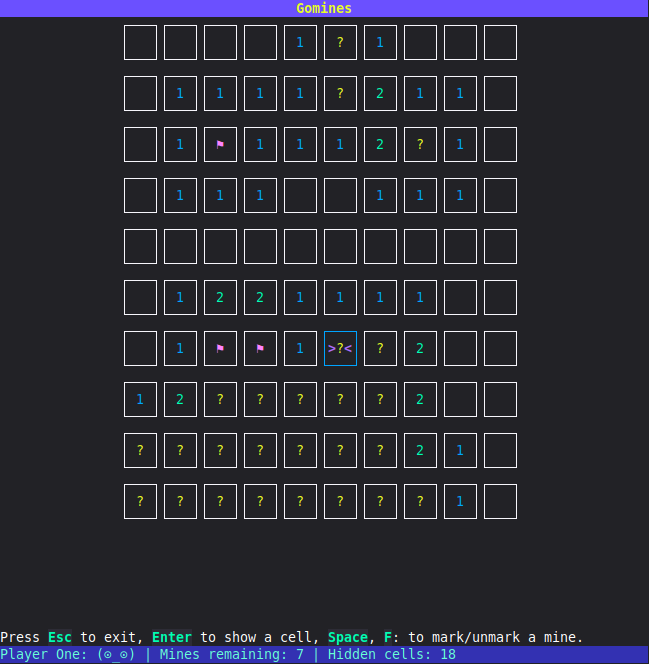
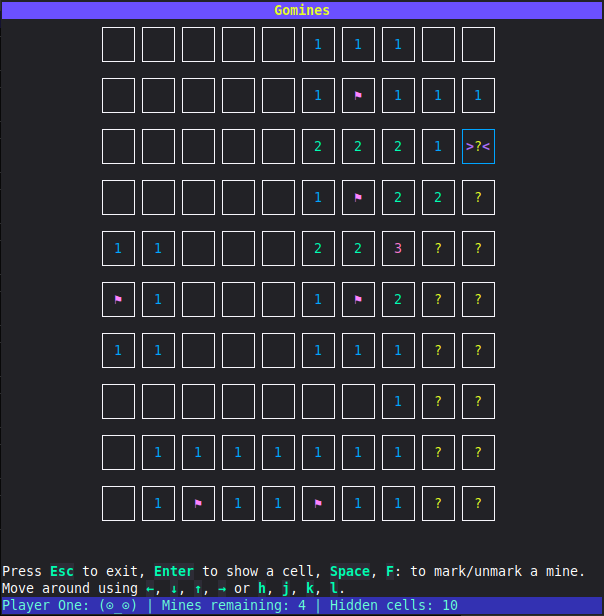
🔧 Adding Goreleaser (#4)

Changed region(s): [[0.0, 0.0, 1.0, 0.8328], [0.0, 0.8945, 1.0, 1.0]]

diff --git a/internal/pkg/mybubbles/setup/textinput.go b/internal/pkg/mybubbles/setup/textinput.go
@@ -33,11 +33,11 @@ const (
 func createPlayerNameTI() textinput.Model {
 	n := textinput.New()
 	n.Placeholder = defaultName
-	n.SetVirtualCursor(false)
-	n.Focus()
+	n.SetVirtualCursor(true)
 	n.CharLimit = nameFieldLength
 	n.SetWidth(nameFieldSize)
 	n.Prompt = styles.Prompt.Render(prompt)
+	n.SetStyles(styles.TextInputStyles)
 	return n
 }
 
@@ -45,11 +45,11 @@ func createPlayerNameTI() textinput.Model {
 func createSizeTI() textinput.Model {
 	n := textinput.New()
 	n.Placeholder = defaultSize
-	n.SetVirtualCursor(false)
-	n.Focus()
+	n.SetVirtualCursor(true)
 	n.CharLimit = sizeFieldLength
 	n.SetWidth(sizeFieldSize)
 	n.Prompt = styles.Prompt.Render(prompt)
+	n.SetStyles(styles.TextInputStyles)
 	return n
 }
 
@@ -57,20 +57,20 @@ func createSizeTI() textinput.Model {
 func createMineNumberTI() textinput.Model {
 	n := textinput.New()
 	n.Placeholder = defaultMines
-	n.SetVirtualCursor(false)
-	n.Focus()
+	n.SetVirtualCursor(true)
 	n.CharLimit = minesFieldLength
 	n.SetWidth(minesFieldSize)
 	n.Prompt = styles.Prompt.Render(prompt)
+	n.SetStyles(styles.TextInputStyles)
 	return n
 }
 
 func checkSize(_ Options, v string) error {
 	n, err := strconv.Atoi(v)
 	if err != nil {
-		return errors.New("this value is not an integer number.")
+		return errors.New("this value is not an integer number")
 	} else if n < sizeMinValue || sizeMaxValue > 100 {
-		return fmt.Errorf("this value must be beetween %d and %d.",
+		return fmt.Errorf("this value must be beetween %d and %d",
 			sizeMinValue, sizeMaxValue)
 	}
 	return nil
@@ -84,7 +84,7 @@ func checkMines(o Options, v string) error {
 	h, _ := strconv.Atoi(sh)
 	max := w*h - 1
 	if err != nil {
-		return errors.New("this value is not an integer number.")
+		return errors.New("this value is not an integer number")
 	} else if n < minesMinValue || n > max {
 		return fmt.Errorf("this value must be beetween %d and %d", minesMinValue, max)
 	}

diff --git a/internal/pkg/mybubbles/setup/model.go b/internal/pkg/mybubbles/setup/model.go
@@ -3,6 +3,7 @@ package setup
 import (
 	"fmt"
 
+	"charm.land/bubbles/v2/textinput"
 	tea "charm.land/bubbletea/v2"
 	"github.com/mconfalonieri/gomines/internal/pkg/styles"
 )
@@ -17,11 +18,13 @@ type model struct {
 
 // Next switches to the next field.
 func (s model) Next() (model, tea.Cmd) {
+	s.FocusedField().Blur()
 	focus := s.focused + 1
 	if focus == len(s.fields) {
 		return s, tea.Quit
 	}
 	s.focused = focus
+	s.FocusedField().Focus()
 	return s, nil
 }
 
@@ -32,13 +35,13 @@ func (s model) Select(i int) model {
 }
 
 // FocusedField returns the focused field.
-func (s model) FocusedField() field {
-	return s.fields[s.focused]
+func (s model) FocusedField() *field {
+	return &s.fields[s.focused]
 }
 
 // Init initializes the model.
 func (s model) Init() tea.Cmd {
-	return nil
+	return textinput.Blink
 }
 
 // SetError sets the error message.
@@ -91,7 +94,7 @@ func (s model) View() tea.View {
 	t := "\n" + styles.Title.Width(len(s.header())).Render("Gomines setup") + "\n"
 
 	t += s.header() + "\n\n"
-	t += componentView(s.FocusedField()) + "\n\n"
+	t += componentView(*s.FocusedField()) + "\n\n"
 	t += s.footer()
 
 	// Create a view

diff --git a/cmd/gomines/main.go b/cmd/gomines/main.go
@@ -10,6 +10,13 @@ import (
 	"github.com/mconfalonieri/gomines/internal/pkg/styles"
 )
 
+var (
+	// Version compiled by goreleaser.
+	Version = "dev"
+	// Gitsha (commit SHA1) compiled by goreleaser.
+	Gitsha = "none"
+)
+
 // checkError checks if an error occurred. If err is not nil, it prints a
 // message and quits.
 func checkError(err error) {
@@ -44,11 +51,18 @@ func runProgram(o options) {
 }
 
 func main() {
+	if len(os.Args) == 2 && os.Args[1] == "-V" {
+		fmt.Printf("Gomines %s (SHA:%s)\n\n", Version, Gitsha)
+		os.Exit(0)
+	}
+
 	s := runSetup()
 
 	// Set the "font"
 	if err := glyphs.SetDefault(s.GetGlyphSet()); err != nil {
-		glyphs.SetDefault(glyphs.ASCII)
+		if err := glyphs.SetDefault(glyphs.ASCII); err != nil {
+			panic("ERROR: cannot set a default glyph set.")
+		}
 	}
 
 	// Run the main program

diff --git a/internal/pkg/styles/styles.go b/internal/pkg/styles/styles.go
@@ -3,11 +3,14 @@ package styles
 import (
 	"os"
 
+	"charm.land/bubbles/v2/textinput"
 	"charm.land/lipgloss/v2"
 	"charm.land/tone"
 )
 
 var (
+	TextInputStyles = textinput.Styles{}
+
 	Title       = lipgloss.Style{}
 	KeyChar     = lipgloss.Style{}
 	Prompt      = lipgloss.Style{}
@@ -34,6 +37,7 @@ var (
 
 func init() {
 	if lipgloss.HasDarkBackground(os.Stdin, os.Stdout) {
+		TextInputStyles = textinput.DefaultDarkStyles()
 		Title = lipgloss.NewStyle().
 			Foreground(tone.Citron).
 			Background(tone.Charple).
@@ -88,6 +92,7 @@ func init() {
 		MessageLost = lipgloss.NewStyle().
 			Foreground(tone.Salmon)
 	} else {
+		TextInputStyles = textinput.DefaultLightStyles()
 		Title = lipgloss.NewStyle().
 			Foreground(tone.Cumin).
 			Background(tone.Hazy).

diff --git a/internal/pkg/gamelogic/logic.go b/internal/pkg/gamelogic/logic.go
@@ -22,7 +22,6 @@ type PlayField struct {
 	hiddenCells   int
 	VisibleField  [][]string
 	realField     *minefield.MineField
-	statusMsg     string
 }
 
 func New(w, h, m int) (PlayField, error) {
@@ -81,8 +80,8 @@ func (p *PlayField) play(x, y int, mark bool) bool {
 		p.updateStats()
 		return false
 	} else {
-		v := p.openCell(x, y)
-		if v == true {
+		isMine := p.openCell(x, y)
+		if isMine {
 			return true
 		}
 		s := xyStack{}

diff --git a/internal/pkg/mybubbles/setup/setup.go b/internal/pkg/mybubbles/setup/setup.go
@@ -15,8 +15,7 @@ const (
 
 // initialModel prepares all the fields for the model.
 func initialModel(o *Options) model {
-
-	return model{
+	m := model{
 		opt: o,
 		fields: []field{
 			{
@@ -49,6 +48,8 @@ func initialModel(o *Options) model {
 			},
 		},
 	}
+	m.fields[0].Focus()
+	return m
 }
 
 // Run runs the setup process.

diff --git a/internal/pkg/mybubbles/setup/field.go b/internal/pkg/mybubbles/setup/field.go
@@ -19,3 +19,15 @@ type field struct {
 	Header         string
 	Check          func(Options, string) error
 }
+
+func (f *field) Focus() {
+	if f.Type == fieldTextInput {
+		f.TextInputModel.Focus()
+	}
+}
+
+func (f *field) Blur() {
+	if f.Type == fieldTextInput {
+		f.TextInputModel.Blur()
+	}
+}

diff --git a/internal/pkg/gamelogic/stack.go b/internal/pkg/gamelogic/stack.go
@@ -7,11 +7,6 @@ type xy struct {
 
 type xyStack []xy
 
-func (s xyStack) peek() xy {
-	cur := len(s) - 1
-	return s[cur]
-}
-
 func (s *xyStack) push(e xy) {
 	n := append(*s, e)
 	*s = n

diff --git a/cmd/gomines/model.go b/cmd/gomines/model.go
@@ -129,7 +129,6 @@ func (m model) Update(msg tea.Msg) (tea.Model, tea.Cmd) {
 				m.restart = true
 				return m, tea.Quit
 			}
-
 		}
 	}
 	if !m.dead && !m.won {

diff --git a/README.md b/README.md
@@ -11,5 +11,3 @@ For now you need go:
 ```bash
 go install github.com/mconfalonieri/gomines@main
 ```
-
-
